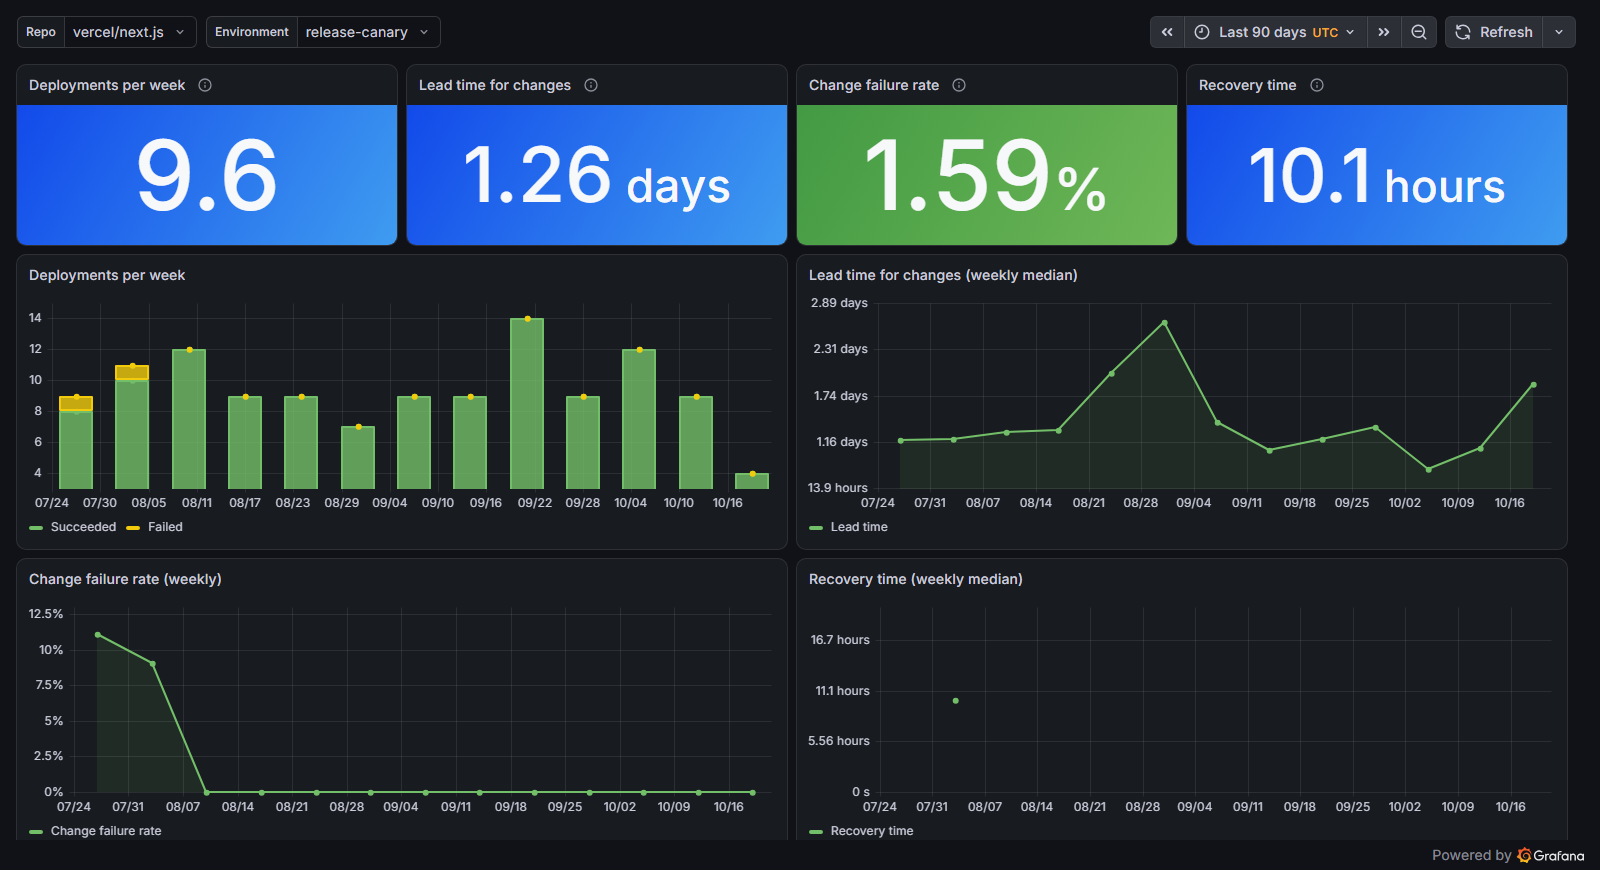
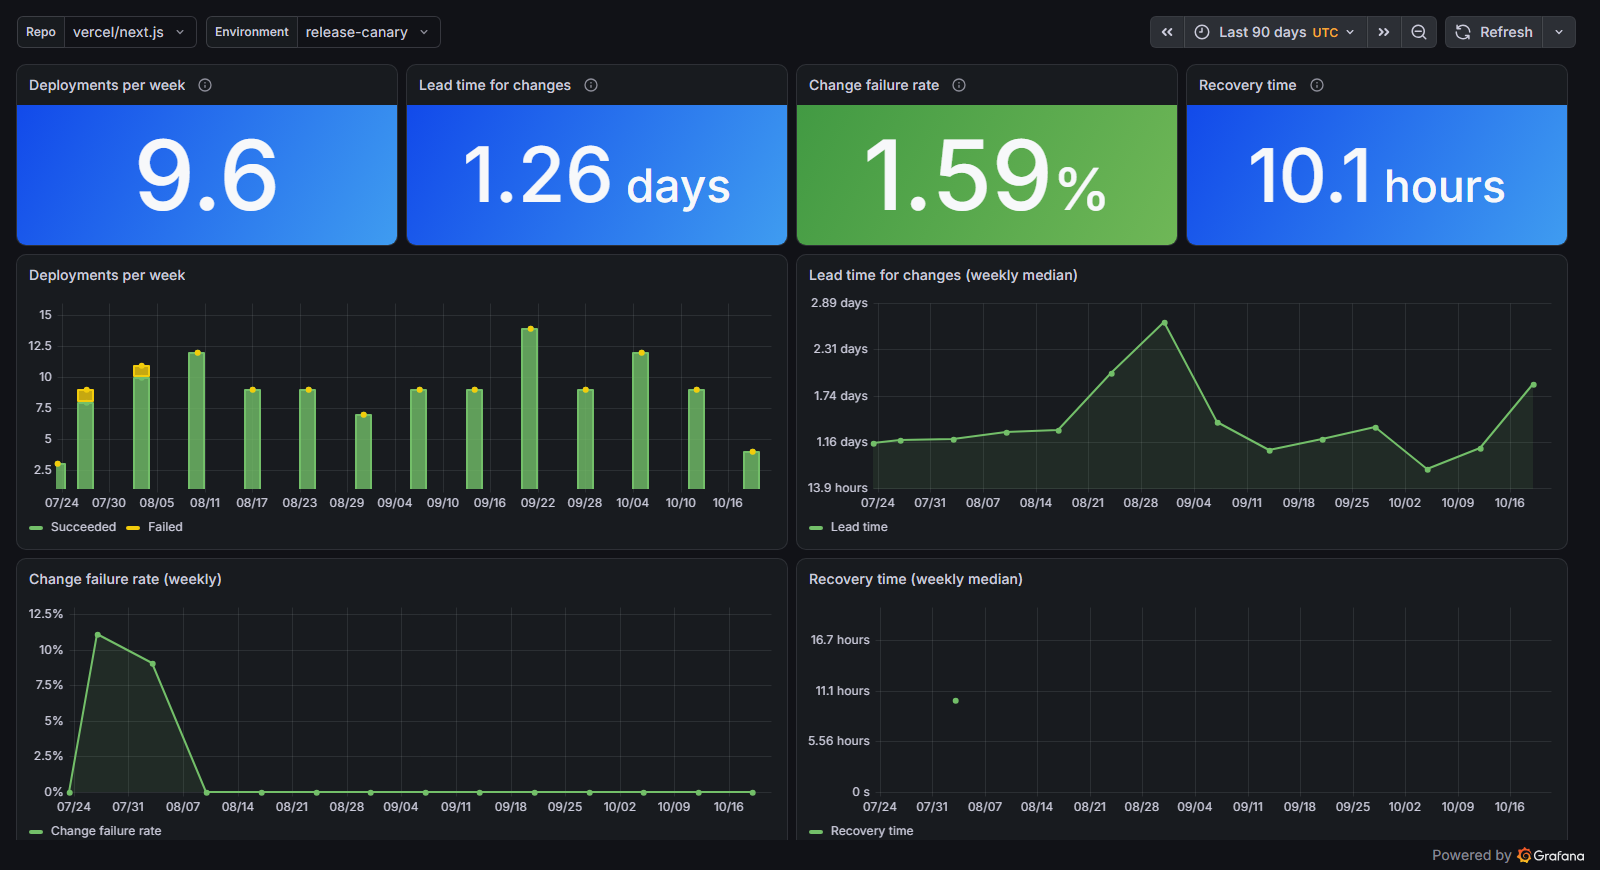
Show the partial first week on the dashboard (#4)
The weekly charts kept only weeks that start inside the time range, so the
week the range starts in was dropped (3 of 124 next.js deploys). Keep every
week that overlaps the range and plot a partial first week at the range
start. Screenshot retaken.

diff --git a/grafana/build_dashboard.py b/grafana/build_dashboard.py
@@ -96,7 +96,12 @@ def variable(name, label, sql):
     }
 
 
-weekly = f"from weekly_metrics where {WHERE} and $__timeFilter(week::timestamptz) order by 1"
+# Keep every week that overlaps the range, not only weeks that start inside it,
+# and plot a partial first week at the range start so it isn't clipped.
+WEEK = "greatest(week::timestamptz, $__timeFrom()::timestamptz)"
+weekly = f"""from weekly_metrics where {WHERE}
+             and week::timestamptz + interval '7 days' > $__timeFrom()::timestamptz
+             and week::timestamptz < $__timeTo()::timestamptz order by 1"""
 
 dashboard = {
     "uid": "dora",
@@ -168,7 +173,7 @@ dashboard = {
         timeseries(
             5,
             "Deployments per week",
-            f"""select week::timestamptz as time, deployments as "Succeeded",
+            f"""select {WEEK} as time, deployments as "Succeeded",
                        failed as "Failed" {weekly}""",
             "none",
             0,
@@ -178,7 +183,7 @@ dashboard = {
         timeseries(
             6,
             "Lead time for changes (weekly median)",
-            f"""select week::timestamptz as time,
+            f"""select {WEEK} as time,
                        median_lead_time_hours * 3600 as "Lead time" {weekly}""",
             "s",
             12,
@@ -187,7 +192,7 @@ dashboard = {
         timeseries(
             7,
             "Change failure rate (weekly)",
-            f"""select week::timestamptz as time,
+            f"""select {WEEK} as time,
                        change_failure_rate as "Change failure rate" {weekly}""",
             "percentunit",
             0,
@@ -196,7 +201,7 @@ dashboard = {
         timeseries(
             8,
             "Recovery time (weekly median)",
-            f"""select week::timestamptz as time,
+            f"""select {WEEK} as time,
                        median_recovery_hours * 3600 as "Recovery time" {weekly}""",
             "s",
             12,
